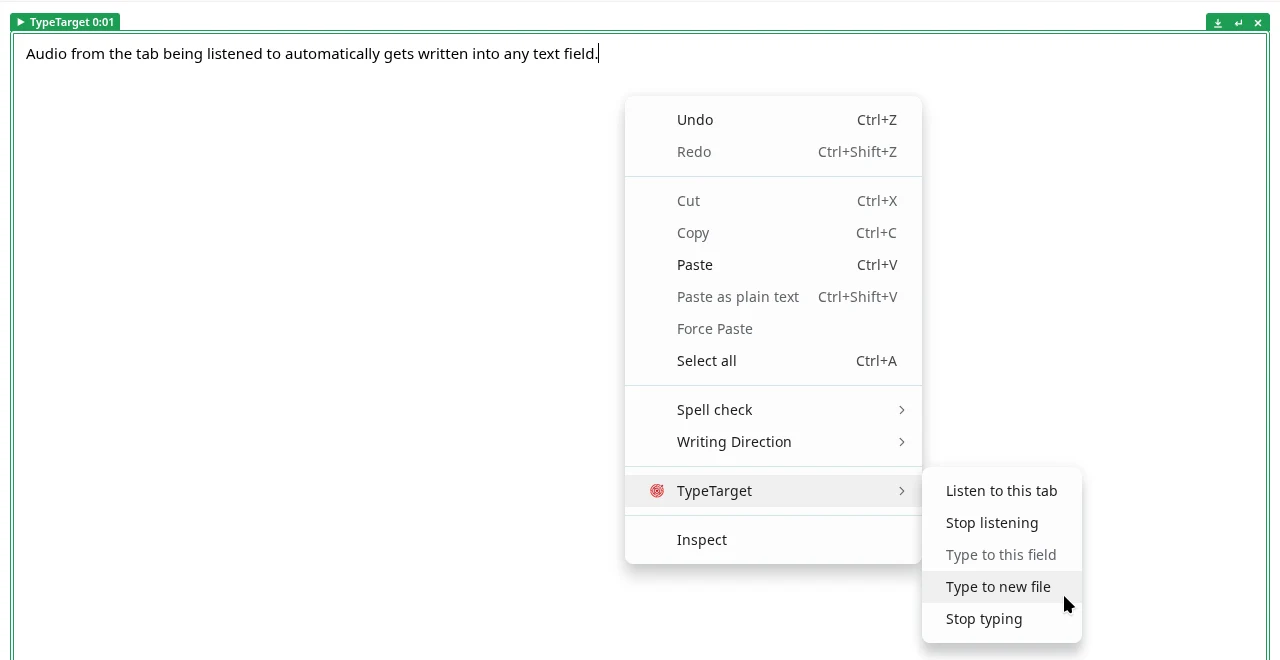
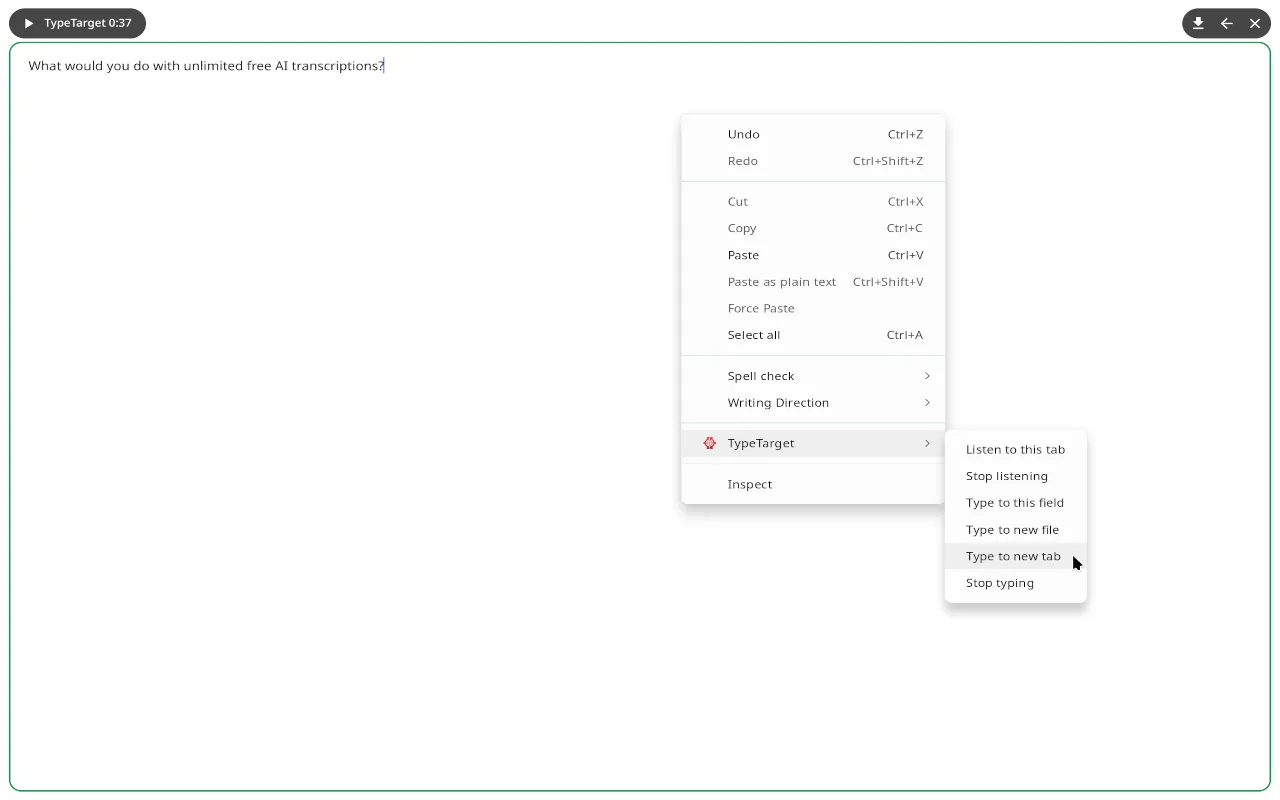
new sceens

diff --git a/lib/site.ts b/lib/site.ts
@@ -9,7 +9,7 @@ export const WHISPER_LANGUAGES_URL =
   "https://github.com/openai/whisper#available-models-and-languages"
 export const GEMINI_LANGUAGES_URL =
   "https://ai.google.dev/gemini-api/docs/models/gemini-3.5-transcribe#supported-languages"
-export const VERSION = "0.4.8"
+export const VERSION = "0.4.9"
 export const SITE_URL = "https://www.typetarget.com"
 /** The link preview image, built by `app/og.png/route.tsx`. */
 export const OG_IMAGE = {
